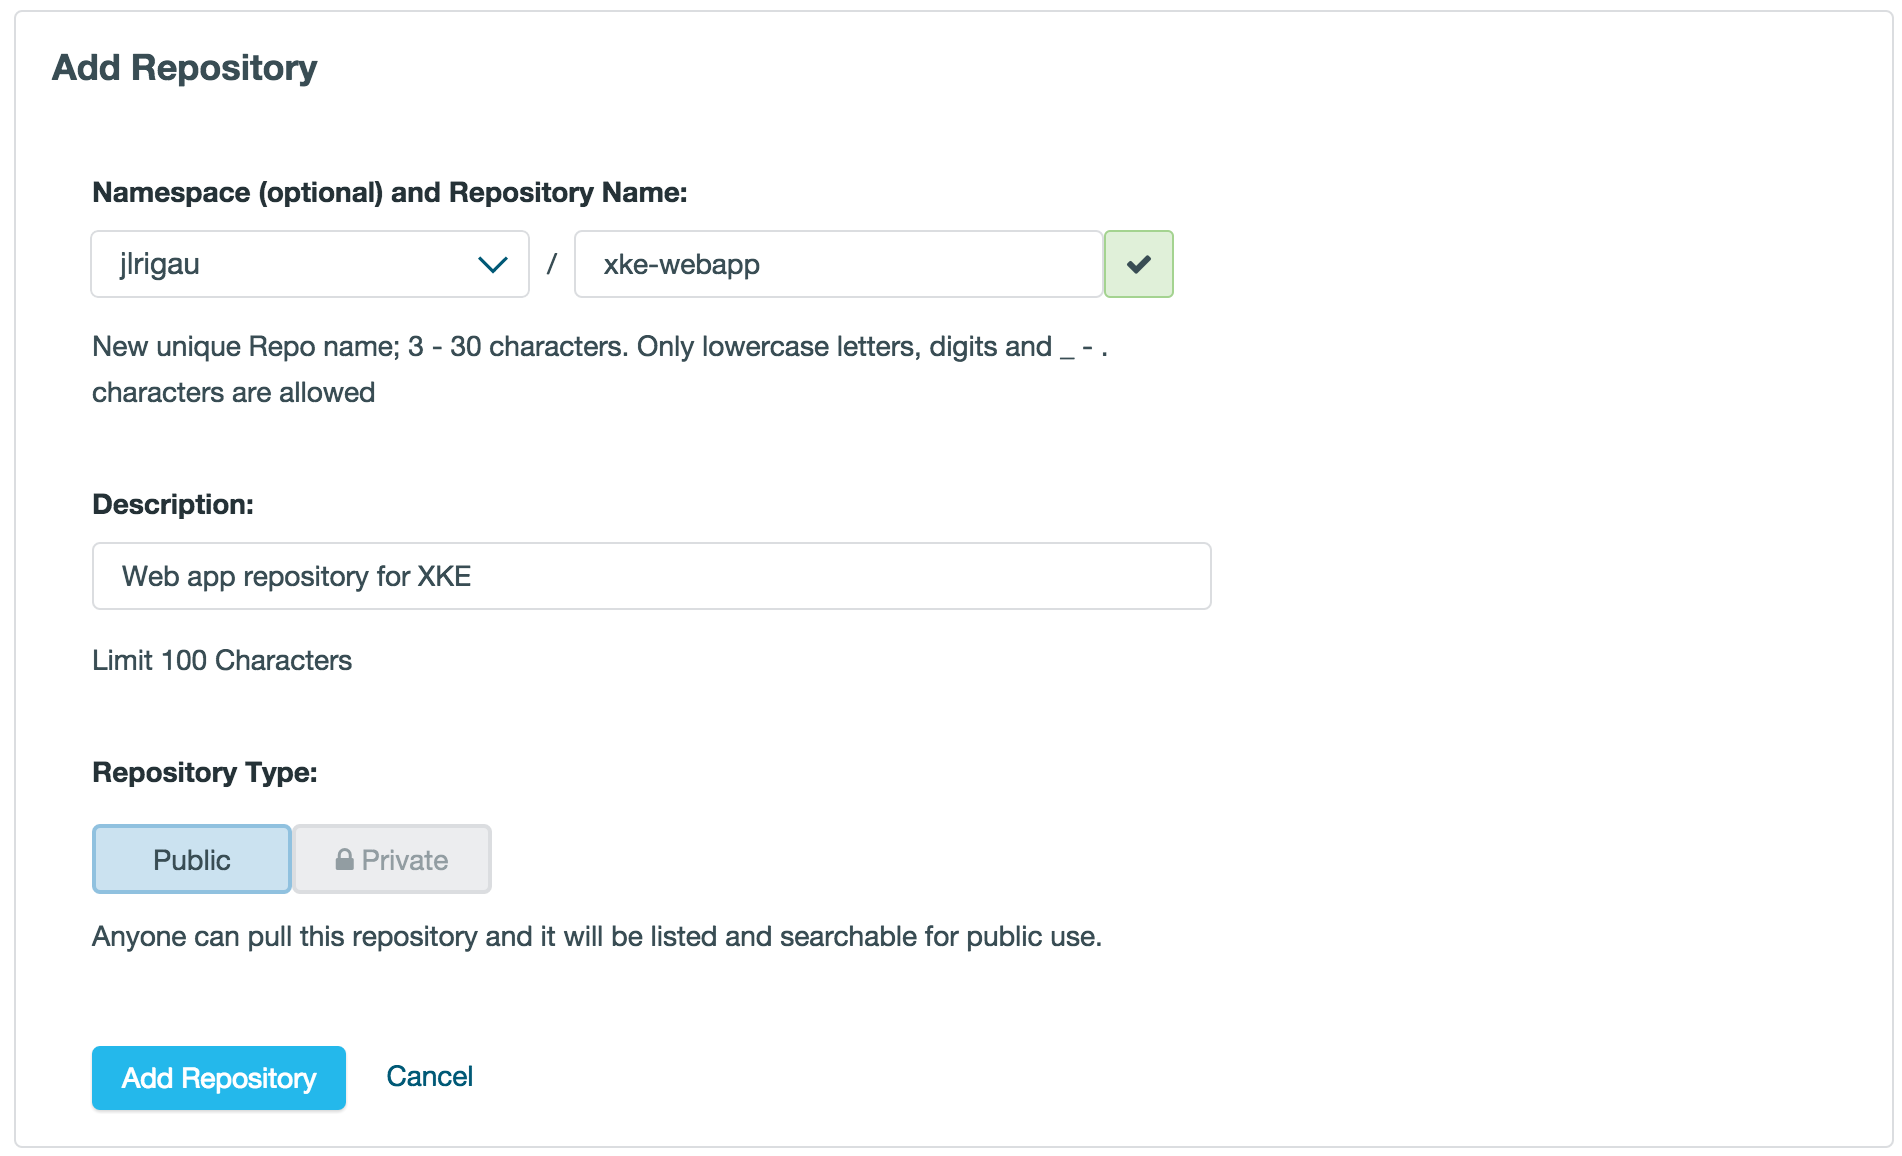
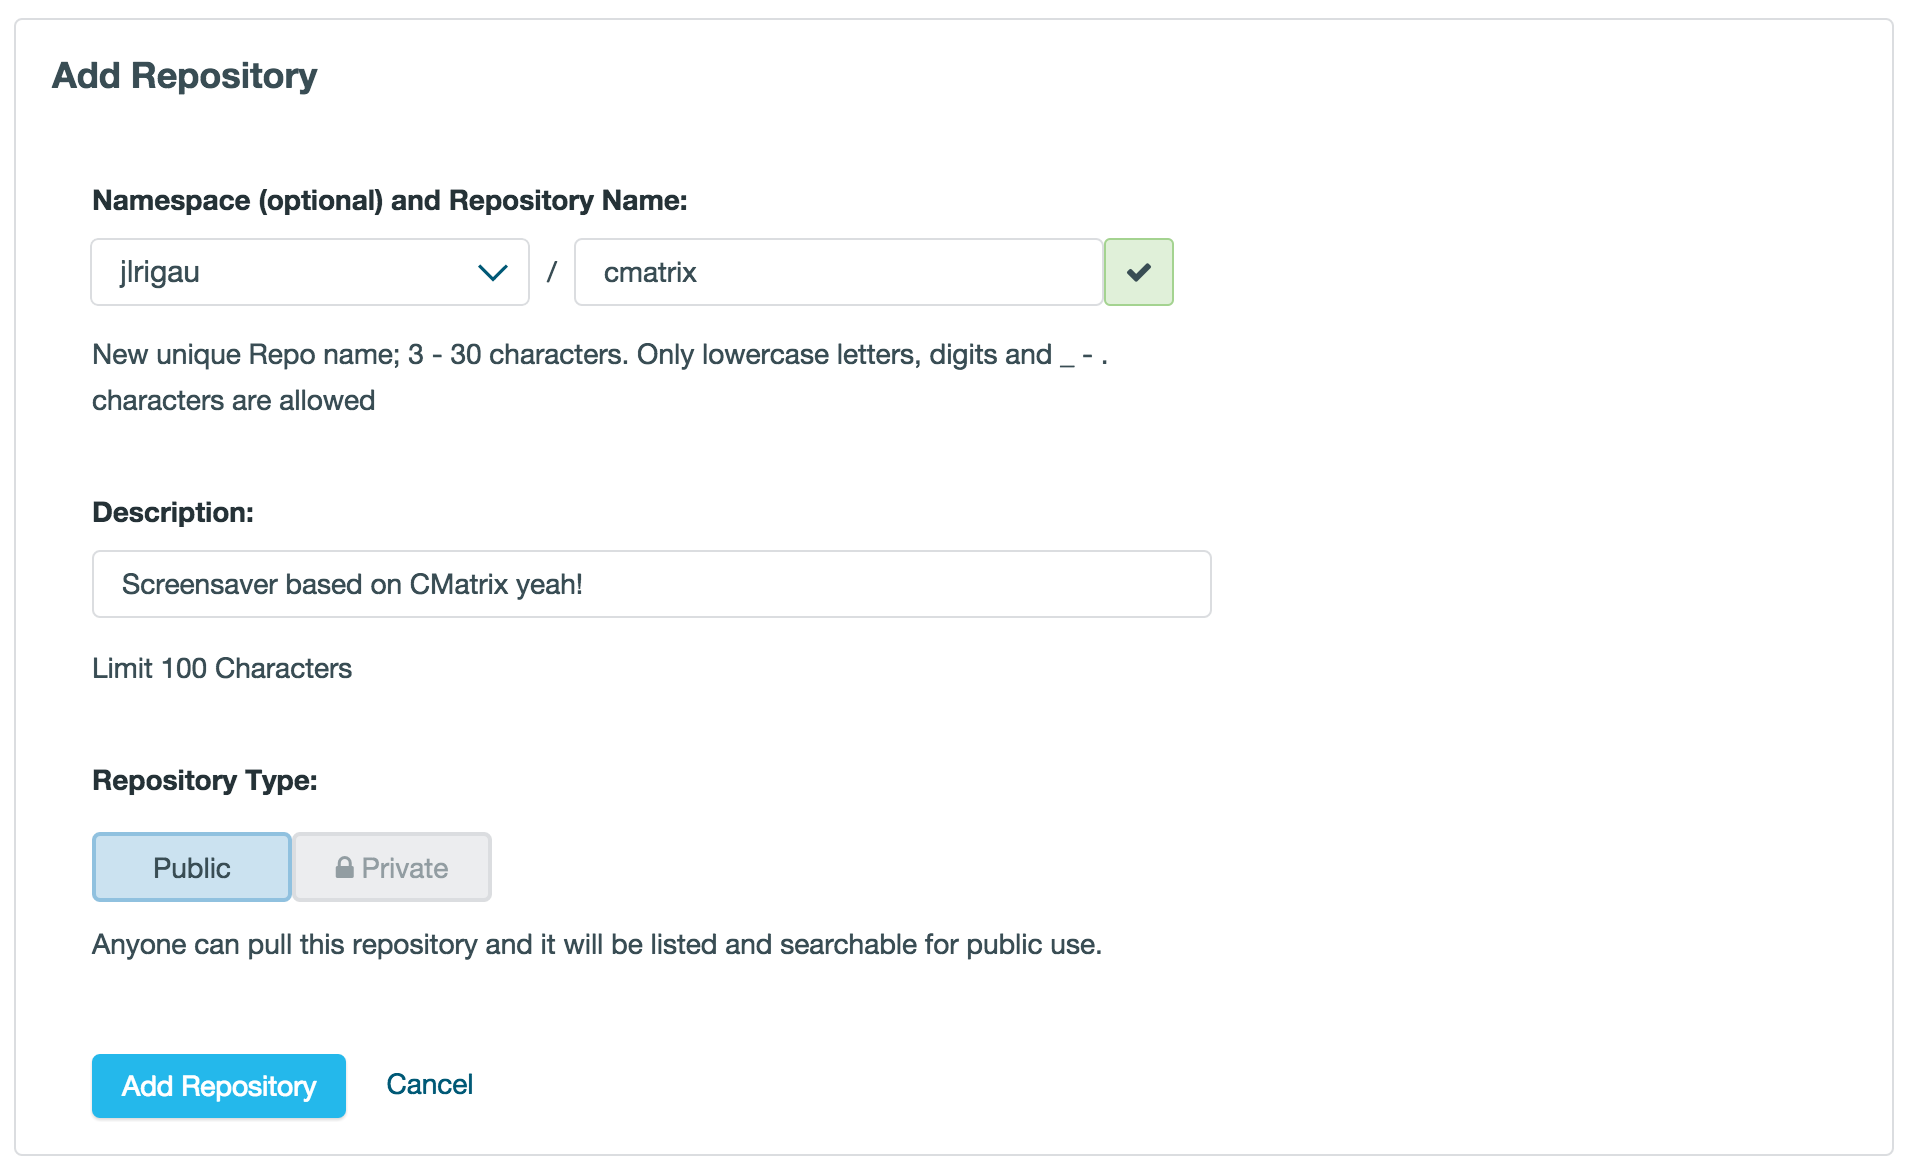
Add some new lines to Docker Hub part #sick! #veille-de-xke

diff --git a/_layouts/group.html b/_layouts/group.html
@@ -345,6 +345,28 @@ $ cat ~/.dockercfg
   <p><img src="../images/dockerhub-add-repo.png"></p>
   
 <p>En cliquant sur <em>Repositories</em>, vous pouvez voir votre nouveau repository. 
-    Il vous est dès à présent possible de pousser des images sur ce repository à partir de la ligne de commande <em>docker</em>.</p>
+Il vous est dès à présent possible de pousser des images sur ce repository à partir de la ligne de commande <em>docker</em>.</p>
+
+<p>Pour commencer, lancer un terminal à l'intérieur d'un containeur <em>ubuntu</em> en mode intéractif</p>
+
+<div class = 'solution'>
+
+{% highlight bash %}
+$ docker run -it ubuntu bash
+root@<votreContaineurId>:/#
+{% endhighlight %}
+
+</div
+
+<p>Il faut maintenant rafraichir la liste des packages disponibles à l'installation, 
+puis installer le package <em>cmatrix</em>.</p>
+
+<div class = 'solution'>
+
+{% highlight bash %}
+root@<votreContaineurId>:/# apt-get update && apt-get install -y cmatrix
+{% endhighlight %}
+
+</div>
 
 <h2>Orchestration avec Fig</h2>
